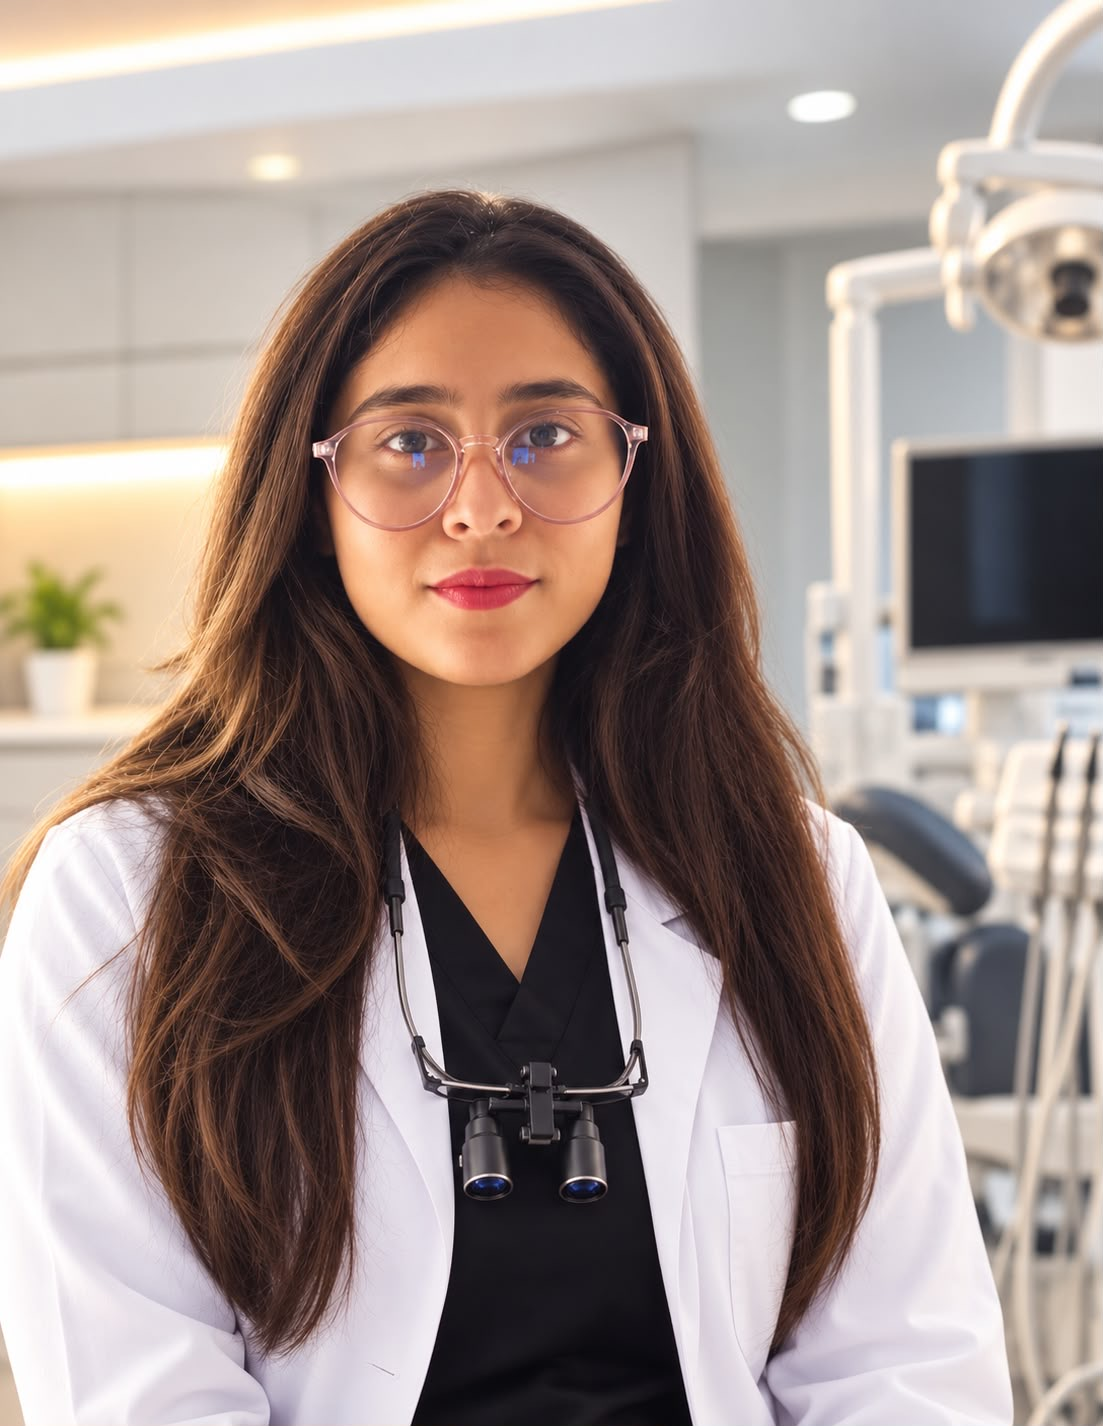
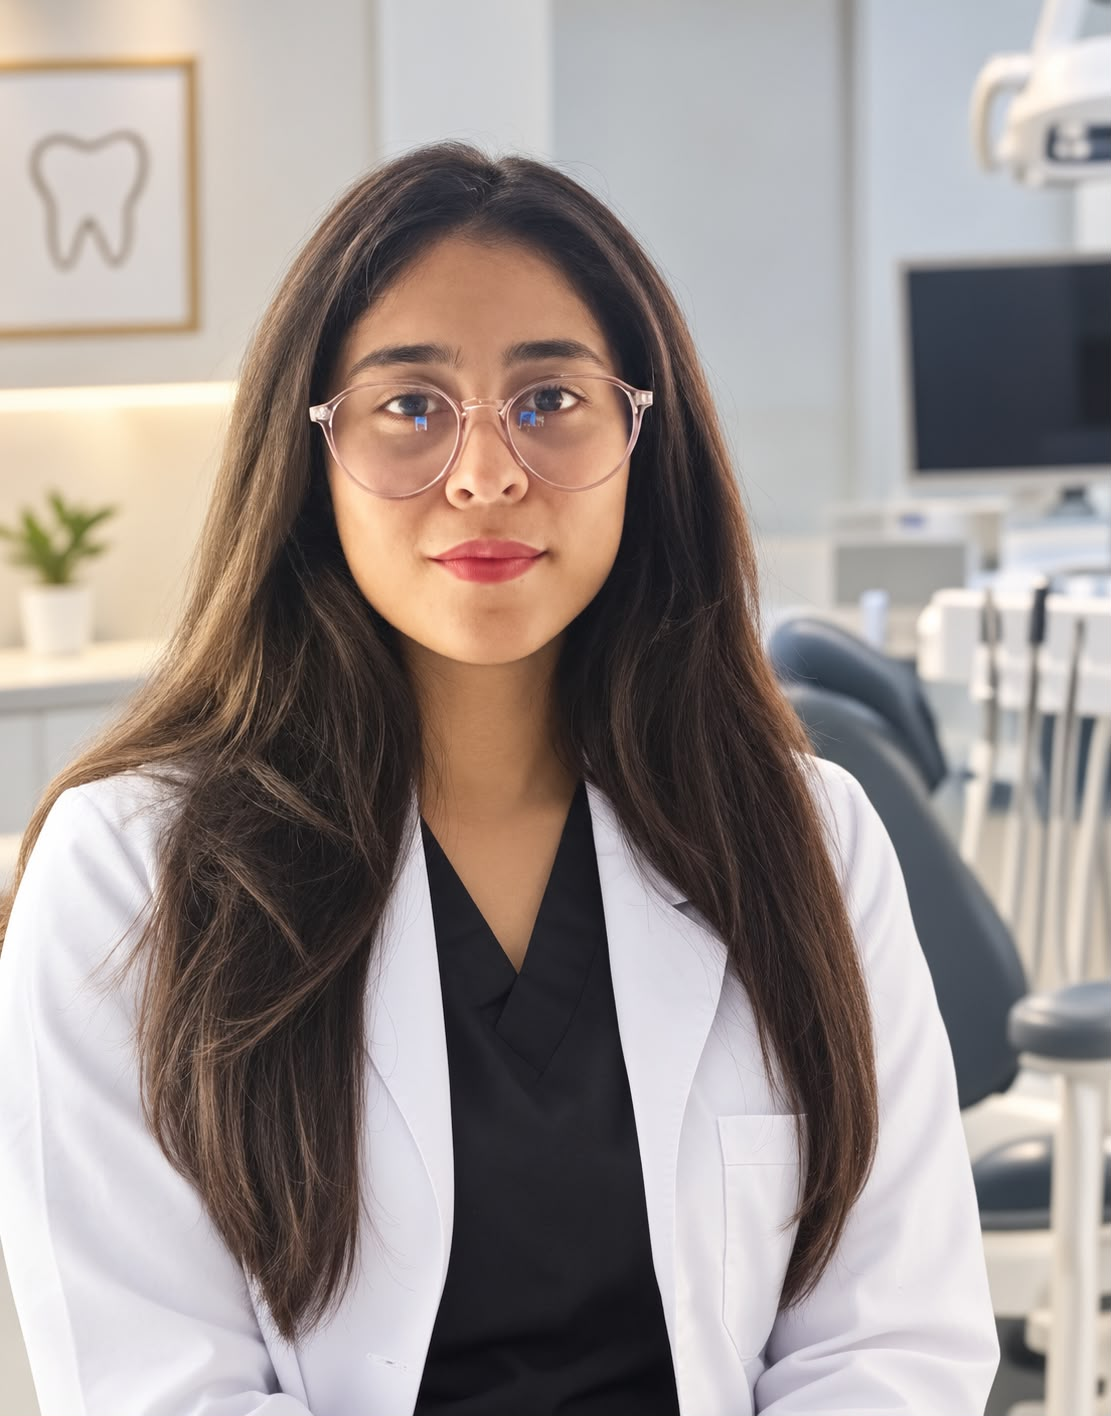
Add hero 3-doctor loop carousel, update Dr. Anisha photo, and add Raylancer Services footer credit

diff --git a/src/components/HeroDoctorCarousel.tsx b/src/components/HeroDoctorCarousel.tsx
@@ -1,0 +1,216 @@
+"use client";
+
+import React, { useState, useEffect, useCallback, useRef } from "react";
+import Image from "next/image";
+import Link from "next/link";
+import { ArrowRight, ChevronLeft, ChevronRight, ShieldCheck } from "lucide-react";
+
+interface DoctorSlide {
+  name: string;
+  role: string;
+  credentials: string;
+  image: string;
+  slug: string;
+}
+
+const DOCTOR_SLIDES: DoctorSlide[] = [
+  {
+    name: "Dr. Abhinav Kumar",
+    role: "SENIOR ORAL & DENTAL SURGEON",
+    credentials: "BDS, MBA, MIDA • Ex-Senior Dentist, Smile Foundation",
+    image: "/images/dr-abhinav.jpeg",
+    slug: "dr-abhinav-kumar",
+  },
+  {
+    name: "Dr. Sumit Kumar",
+    role: "ORAL SURGEON & FACIAL AESTHETICS",
+    credentials: "BDS, FFAC • Ex-Realtooth, Lucknow",
+    image: "/images/dr-sumit.jpeg",
+    slug: "dr-sumit-kumar",
+  },
+  {
+    name: "Dr. Anisha Deb",
+    role: "MDS ROOT CANAL & FACIAL SPECIALIST",
+    credentials: "BDS, MDS, FFAC • Ex-Max Hospital, New Delhi",
+    image: "/images/dr-anisha.jpeg",
+    slug: "dr-anisha-deb",
+  },
+];
+
+const AUTOPLAY_INTERVAL_MS = 4500;
+
+export function HeroDoctorCarousel() {
+  const [currentIndex, setCurrentIndex] = useState(0);
+  const [isPaused, setIsPaused] = useState(false);
+  const touchStartX = useRef<number | null>(null);
+
+  const goToNext = useCallback(() => {
+    setCurrentIndex((prev) => (prev + 1) % DOCTOR_SLIDES.length);
+  }, []);
+
+  const goToPrev = useCallback(() => {
+    setCurrentIndex(
+      (prev) => (prev - 1 + DOCTOR_SLIDES.length) % DOCTOR_SLIDES.length
+    );
+  }, []);
+
+  const goToSlide = useCallback((index: number) => {
+    setCurrentIndex(index);
+  }, []);
+
+  useEffect(() => {
+    if (isPaused) return;
+    const timer = setInterval(() => {
+      goToNext();
+    }, AUTOPLAY_INTERVAL_MS);
+
+    return () => clearInterval(timer);
+  }, [isPaused, goToNext]);
+
+  const handleTouchStart = (e: React.TouchEvent) => {
+    touchStartX.current = e.touches[0].clientX;
+  };
+
+  const handleTouchEnd = (e: React.TouchEvent) => {
+    if (touchStartX.current === null) return;
+    const touchEndX = e.changedTouches[0].clientX;
+    const diff = touchStartX.current - touchEndX;
+
+    if (Math.abs(diff) > 40) {
+      if (diff > 0) {
+        goToNext();
+      } else {
+        goToPrev();
+      }
+    }
+    touchStartX.current = null;
+  };
+
+  const currentDoctor = DOCTOR_SLIDES[currentIndex];
+
+  return (
+    <div
+      className="relative w-full max-w-md select-none"
+      onMouseEnter={() => setIsPaused(true)}
+      onMouseLeave={() => setIsPaused(false)}
+      onTouchStart={handleTouchStart}
+      onTouchEnd={handleTouchEnd}
+      aria-roledescription="carousel"
+      aria-label="Clinical Specialists Carousel"
+    >
+      {/* Top Floating Authority Badge */}
+      <div className="hidden sm:flex items-center gap-2.5 absolute -top-4 -left-5 z-30 bg-white/95 backdrop-blur-md px-4 py-2.5 rounded-xl border border-border-subtle shadow-[0_12px_30px_-10px_rgba(41,37,31,0.15)] pointer-events-none">
+        <ShieldCheck
+          className="w-4 h-4 text-champagne-gold shrink-0"
+          aria-hidden="true"
+        />
+        <div>
+          <p className="text-[11px] font-bold text-espresso leading-none">
+            Class-B Autoclave Sterility
+          </p>
+          <p className="text-[10px] text-muted-grey mt-0.5">
+            3D Digital RVG Diagnostics
+          </p>
+        </div>
+      </div>
+
+      {/* Main Card Viewport */}
+      <div className="relative w-full aspect-[4/5] rounded-2xl overflow-hidden bg-ivory-secondary border border-border-subtle shadow-[0_24px_48px_-15px_rgba(41,37,31,0.16)] group">
+        {/* Render all doctor images for instant preloaded crossfade */}
+        {DOCTOR_SLIDES.map((doc, idx) => {
+          const isActive = idx === currentIndex;
+          return (
+            <div
+              key={doc.slug}
+              className={`absolute inset-0 transition-opacity duration-700 ease-in-out ${
+                isActive ? "opacity-100 z-10" : "opacity-0 z-0 pointer-events-none"
+              }`}
+              aria-hidden={!isActive}
+            >
+              <Image
+                src={doc.image}
+                alt={`${doc.name}, ${doc.role} at Dant काया`}
+                fill
+                priority={idx === 0}
+                sizes="(max-width: 1024px) 100vw, 42vw"
+                className="w-full h-full object-cover object-center transition-transform duration-700 ease-out group-hover:scale-[1.02]"
+              />
+            </div>
+          );
+        })}
+
+        {/* Ambient Dark Scrim Gradient for Crisp Typography */}
+        <div
+          className="absolute inset-0 z-15 bg-gradient-to-t from-espresso/90 via-espresso/25 to-transparent pointer-events-none"
+          aria-hidden="true"
+        />
+
+        {/* Top-Right Segmented Progress Pills */}
+        <div className="absolute top-4 right-4 z-20 flex items-center gap-1.5 bg-espresso/50 backdrop-blur-md p-1.5 rounded-full border border-white/15">
+          {DOCTOR_SLIDES.map((doc, idx) => {
+            const isActive = idx === currentIndex;
+            return (
+              <button
+                key={doc.slug}
+                onClick={() => goToSlide(idx)}
+                className={`transition-all duration-300 rounded-full ${
+                  isActive
+                    ? "w-6 h-2 bg-champagne-gold"
+                    : "w-2 h-2 bg-white/40 hover:bg-white/70"
+                }`}
+                aria-label={`Go to slide ${idx + 1}: ${doc.name}`}
+                aria-current={isActive}
+              />
+            );
+          })}
+        </div>
+
+        {/* Left / Right Nav Arrows (Subtle Frosted Circular Buttons) */}
+        <div className="absolute inset-y-0 left-2 right-2 z-20 flex items-center justify-between pointer-events-none">
+          <button
+            onClick={goToPrev}
+            aria-label="Previous doctor"
+            className="pointer-events-auto w-8 h-8 rounded-full bg-espresso/40 hover:bg-espresso/80 text-white backdrop-blur-md border border-white/20 flex items-center justify-center transition-all duration-200 opacity-70 group-hover:opacity-100 hover:scale-105"
+          >
+            <ChevronLeft className="w-4 h-4" />
+          </button>
+          <button
+            onClick={goToNext}
+            aria-label="Next doctor"
+            className="pointer-events-auto w-8 h-8 rounded-full bg-espresso/40 hover:bg-espresso/80 text-white backdrop-blur-md border border-white/20 flex items-center justify-center transition-all duration-200 opacity-70 group-hover:opacity-100 hover:scale-105"
+          >
+            <ChevronRight className="w-4 h-4" />
+          </button>
+        </div>
+
+        {/* Bottom Overlay: Animated Doctor Information */}
+        <div className="absolute bottom-5 left-5 right-5 z-20 text-white flex items-end justify-between gap-4">
+          <div className="min-w-0">
+            <p className="text-[10px] font-semibold uppercase tracking-[0.2em] text-[#fedb9b] mb-1 truncate">
+              {currentDoctor.role}
+            </p>
+            <h2 className="font-heading font-bold text-[22px] sm:text-[23px] text-white leading-tight">
+              <Link
+                href={`/doctors/${currentDoctor.slug}`}
+                className="hover:text-champagne-gold transition-colors"
+              >
+                {currentDoctor.name}
+              </Link>
+            </h2>
+            <p className="text-[12px] text-white/80 font-normal mt-0.5 line-clamp-1">
+              {currentDoctor.credentials}
+            </p>
+          </div>
+
+          <Link
+            href="/doctors"
+            className="shrink-0 inline-flex items-center gap-1.5 bg-white/15 hover:bg-white/25 backdrop-blur-md border border-white/25 text-white text-[11px] font-semibold px-3 py-2 rounded-lg transition-colors"
+          >
+            <span>3 Specialists</span>
+            <ArrowRight className="w-3.5 h-3.5" aria-hidden="true" />
+          </Link>
+        </div>
+      </div>
+    </div>
+  );
+}

diff --git a/src/app/page.tsx b/src/app/page.tsx
@@ -13,6 +13,7 @@ import { AppointmentCTA } from "@/components/AppointmentCTA";
 import { PrimaryButton } from "@/components/PrimaryButton";
 import { SecondaryButton } from "@/components/SecondaryButton";
 import { RevealOnScroll } from "@/components/RevealOnScroll";
+import { HeroDoctorCarousel } from "@/components/HeroDoctorCarousel";
 
 const heroQuickTreatments = [
   {
@@ -168,65 +169,12 @@ export default function HomePage() {
             </div>
           </RevealOnScroll>
 
-          {/* Right Column: Layered Clinical Portrait + Floating Specialist & Sterility Cards */}
+          {/* Right Column: Interactive Looping Doctor Carousel + Floating Sterility Badge */}
           <RevealOnScroll
             delay={0.08}
             className="lg:col-span-5 flex justify-center lg:justify-end"
           >
-            <div className="relative w-full max-w-md">
-              {/* Top Floating Badge */}
-              <div className="hidden sm:flex items-center gap-2.5 absolute -top-4 -left-5 z-20 bg-white/95 backdrop-blur-md px-4 py-2.5 rounded-xl border border-border-subtle shadow-[0_12px_30px_-10px_rgba(41,37,31,0.15)]">
-                <ShieldCheck
-                  className="w-4 h-4 text-champagne-gold shrink-0"
-                  aria-hidden="true"
-                />
-                <div>
-                  <p className="text-[11px] font-bold text-espresso leading-none">
-                    Class-B Autoclave Sterility
-                  </p>
-                  <p className="text-[10px] text-muted-grey mt-0.5">
-                    3D Digital RVG Diagnostics
-                  </p>
-                </div>
-              </div>
-
-              {/* Main Portrait Card */}
-              <div className="relative w-full aspect-[4/5] rounded-2xl overflow-hidden bg-ivory-secondary border border-border-subtle shadow-[0_24px_48px_-15px_rgba(41,37,31,0.16)] group">
-                <Image
-                  src="/images/dr-abhinav.jpeg"
-                  alt="Dr. Abhinav Kumar, Senior Oral & Dental Surgeon at Dant काया"
-                  fill
-                  priority
-                  sizes="(max-width: 1024px) 100vw, 42vw"
-                  className="w-full h-full object-cover object-top transition-transform duration-700 ease-out group-hover:scale-[1.02]"
-                />
-                <div
-                  className="absolute inset-0 bg-gradient-to-t from-espresso/90 via-espresso/20 to-transparent"
-                  aria-hidden="true"
-                />
-
-                <div className="absolute bottom-5 left-5 right-5 text-white flex items-end justify-between gap-4">
-                  <div>
-                    <p className="text-[10px] font-semibold uppercase tracking-[0.2em] text-[#fedb9b] mb-1">
-                      SENIOR ORAL &amp; DENTAL SURGEON
-                    </p>
-                    <h2 className="font-heading font-bold text-[22px] text-white leading-tight">
-                      Dr. Abhinav Kumar
-                    </h2>
-                    <p className="text-[12px] text-white/80 font-normal mt-0.5">
-                      BDS, MBA, MIDA • Ex-Senior Dentist, Smile Foundation
-                    </p>
-                  </div>
-                  <Link
-                    href="/doctors"
-                    className="shrink-0 inline-flex items-center gap-1.5 bg-white/15 hover:bg-white/25 backdrop-blur-md border border-white/25 text-white text-[11px] font-semibold px-3 py-2 rounded-lg transition-colors"
-                  >
-                    <span>3 Specialists</span>
-                    <ArrowRight className="w-3.5 h-3.5" aria-hidden="true" />
-                  </Link>
-                </div>
-              </div>
-            </div>
+            <HeroDoctorCarousel />
           </RevealOnScroll>
         </div>
       </section>

diff --git a/src/components/SiteFooter.tsx b/src/components/SiteFooter.tsx
@@ -149,10 +149,23 @@ export function SiteFooter() {
 
         {/* Bottom Sub-Bar */}
         <div className="pt-8 flex flex-col md:flex-row items-center justify-between gap-4 text-[12px] text-ivory-bg/60">
-          <p>
-            © 2025 Dant काया Multispeciality Clinic. All Rights Reserved. Patna,
-            Bihar.
-          </p>
+          <div className="flex flex-col sm:flex-row items-center gap-2 text-center sm:text-left">
+            <p>
+              © {new Date().getFullYear()} Dant काया Multispeciality Clinic. All Rights Reserved. Patna, Bihar.
+            </p>
+            <span className="hidden sm:inline text-ivory-bg/30">•</span>
+            <p className="text-ivory-bg/75">
+              Designed &amp; Developed by{" "}
+              <a
+                href="https://raylancer.com"
+                target="_blank"
+                rel="noopener noreferrer"
+                className="text-champagne-gold hover:text-white transition-colors underline underline-offset-2 font-medium"
+              >
+                Raylancer Services
+              </a>
+            </p>
+          </div>
           <div className="flex items-center gap-6">
             <Link
               className={cn(
